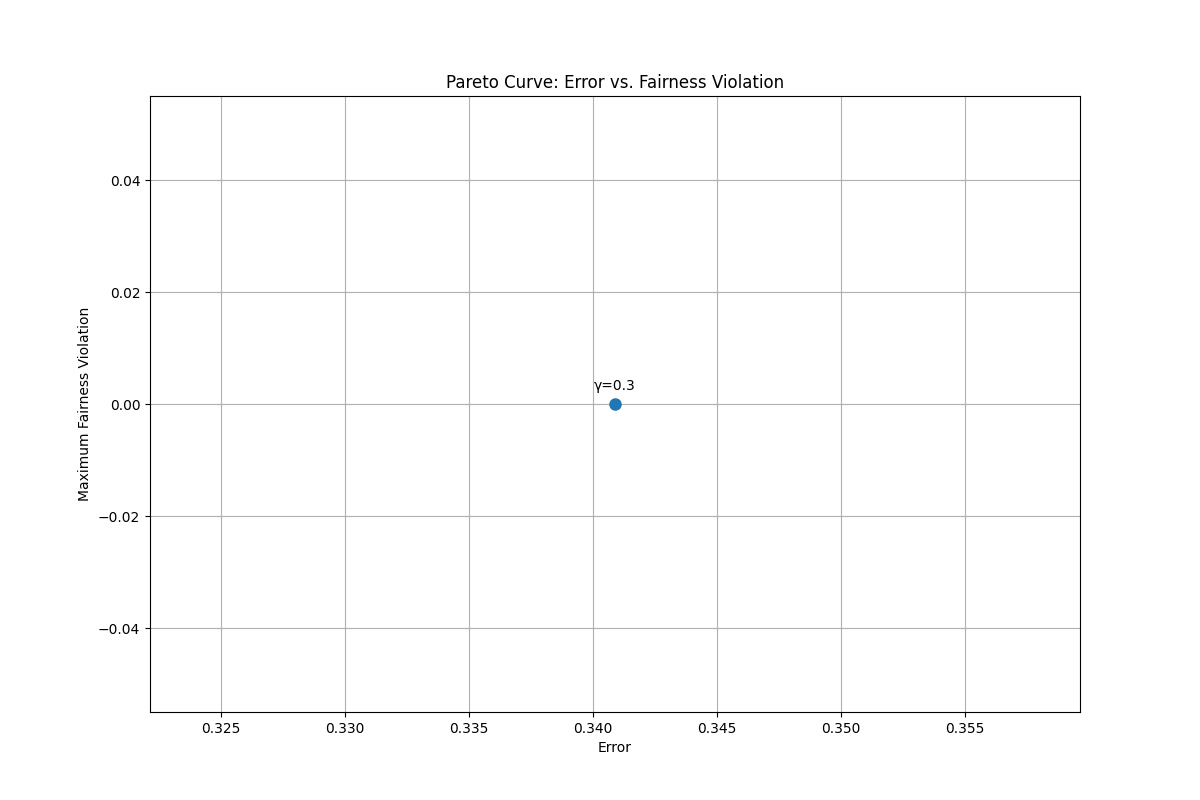
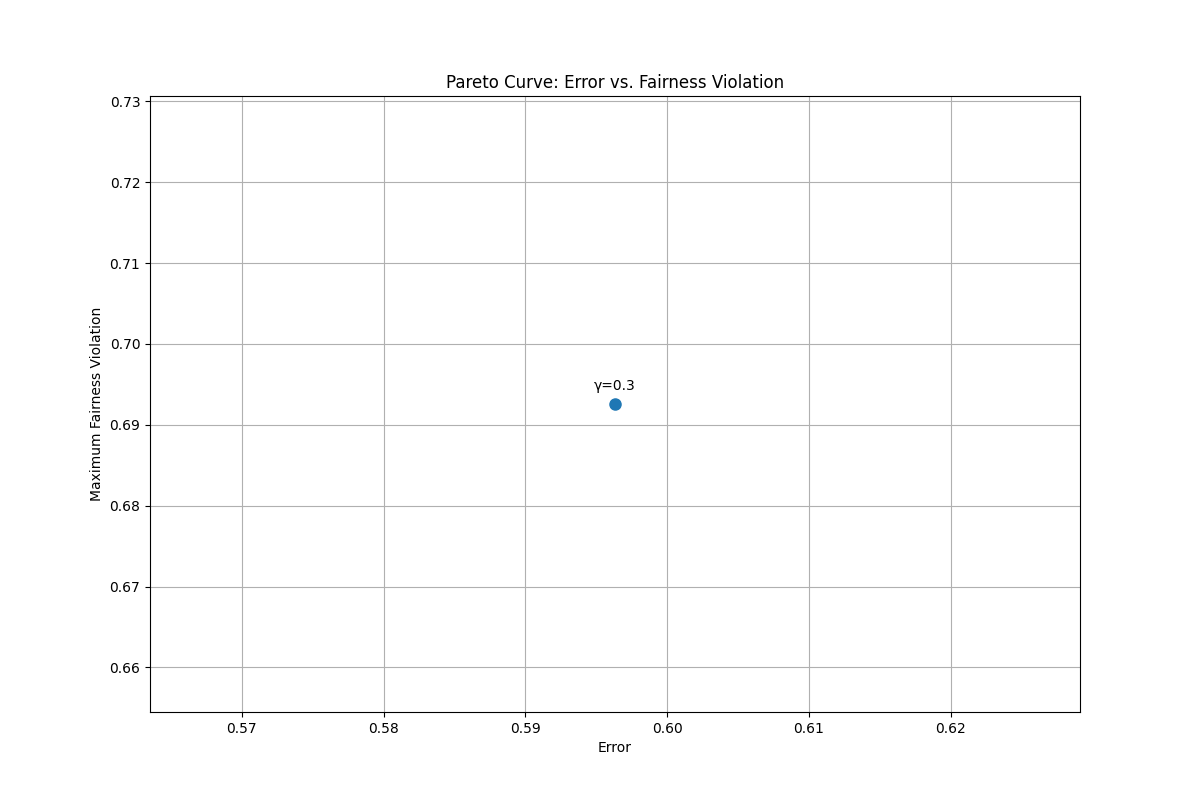
after debugging in detail

diff --git a/river_fairness_adaptive.py b/river_fairness_adaptive.py
@@ -48,7 +48,6 @@ class FairnessElicitationAlgorithm:
         self.time_horizon = time_horizon
         self.C_lambda = C_lambda
         self.C_tau = C_tau
-        self.eta = 0
         
         # Load and preprocess data
         self.load_data()
@@ -158,16 +157,17 @@ class FairnessElicitationAlgorithm:
             if str(judge_id) not in constraint_data:
                 raise ValueError(f"Judge ID {judge_id} not found in constraint data")
             focused_constraints = constraint_data[judge_id]
-            for constraint in focused_constraints:  # directly iterate over the list
-                pair = tuple(constraint['pair'])  # Extract the pair and convert to tuple
-                self.constraints.add(pair)
-                self.w_ij[pair] = constraint['weight']
+            for j_id, constraints in focused_constraints.items():
+                for constraint in constraints:
+                    pair = tuple(constraint['pair'])  # Extract the pair and convert to tuple
+                    self.constraints.add(pair)
+                    self.w_ij[pair] = constraint['weight']
 
             pairs_per_judge = 50  # Assuming 50 pairs were presented
             self.A = pairs_per_judge  # A is the total number of pairs presented
                 
             print(f"Loaded {len(self.constraints)} constraints from judge {judge_id}")
-            print(f"Judge selected {len(focused_constraints)} pairs out of {pairs_per_judge} presented")
+            print(f"Judge selected {len(pairs)} pairs out of {pairs_per_judge} presented")
         
         else:
             # Multiple judges case (original code)
@@ -374,10 +374,6 @@ class FairnessElicitationAlgorithm:
         # Track violations for reporting
         violation_count = 0
         max_gradient = 0.0
-
-        # Calculate learning rates as specified in the paper
-        mu_lambda = 1.0 / (self.C_lambda * np.sqrt(np.log(self.n) / self.time_horizon))
-        mu_tau = self.C_tau / np.sqrt(self.time_horizon)
         
         # Update lambda values with more aggressive learning and exploration
         lambda_new = {}
@@ -387,22 +383,114 @@ class FairnessElicitationAlgorithm:
         violations = []
         for (i, j) in self.constraints:
             diff = probs[i] - probs[j]
-            gradient = diff - gamma
-            curr_lambda = lambda_values.get((i, j), 0.0)
-            lambda_new[(i, j)] = max(0.0, min(self.C_lambda, curr_lambda + mu_lambda * gradient))
-        
-            if gradient > 0: # gradient = violation
-                violations.append(((i, j), gradient, diff))
+            violation = max(0, diff - gamma)
+            if violation > 0:
+                violations.append(((i, j), violation, diff))
                 violation_count += 1
-                total_gradient_norm += gradient**2
+                total_gradient_norm += violation**2
         
-        tau_gradient = sum(self.w_ij.get((i, j), 0) * alpha_t.get((i, j), 0) 
-                       for (i, j) in self.constraints) / self.A - self.eta  # eta is often 0
-        tau_new = max(0.0, min(self.C_tau, tau_value + mu_tau * tau_gradient))
-    
+        # Print detailed information about violations
         if violation_count > 0:
-            print(f"Iteration {t}: Violations = {violation_count}")
-       
+            print(f"\nIteration {t}: Found {violation_count} constraint violations")
+            print(f"Constraint violation details:")
+            
+            # Sort violations by magnitude (descending)
+            violations.sort(key=lambda x: x[1], reverse=True)
+            
+            # Print top 5 violations
+            for (i, j), violation, diff in violations[:5]:
+                print(f"  Pair ({i}, {j}): prob_diff={diff:.6f}, violation={violation:.6f}")
+                
+                # Look at the feature differences for these individuals
+                if hasattr(self, 'X') and len(self.X) > max(i, j):
+                    feature_diff = np.linalg.norm(self.X[i] - self.X[j])
+                    print(f"    Feature difference: {feature_diff:.4f}")
+                    
+                    # If we have labels, check if they're the same
+                    if hasattr(self, 'y') and len(self.y) > max(i, j):
+                        print(f"    Labels: {self.y[i]} vs {self.y[j]}")
+        
+        # Step 2: Apply more aggressive updates
+        learning_rate_base = 0.1  # Higher base learning rate
+        
+        # Add stronger exploration to escape local optima
+        exploration_rate = 0.02 * (1.0 / (1.0 + 0.01 * t))  # Decaying exploration
+        
+        for (i, j) in self.constraints:
+            # Calculate gradient
+            diff = probs[i] - probs[j]
+            gradient = diff - gamma
+            
+            # Current lambda value
+            curr_lambda = lambda_values.get((i, j), 0.0)
+            
+            # Adaptive learning rate - higher for violated constraints
+            if diff > gamma:
+                # Violation - use higher learning rate
+                lr = learning_rate_base * (1.0 / (1.0 + 0.005 * t))
+            else:
+                # No violation - use lower learning rate
+                lr = 0.01 * learning_rate_base * (1.0 / (1.0 + 0.01 * t))
+            
+            # Update lambda with exploration noise
+            noise = np.random.normal(0, exploration_rate) if t % 5 == 0 else 0
+            lambda_new[(i, j)] = max(0.0, min(self.C_lambda, curr_lambda + lr * gradient + noise))
+            
+            # Periodically inject more randomness to escape plateaus
+            if t % 20 == 0 and diff > gamma:
+                lambda_new[(i, j)] = max(0.0, min(self.C_lambda, 
+                                                lambda_new[(i, j)] + np.random.uniform(0, 0.1)))
+        
+        # Step 3: Update tau more aggressively
+        tau_gradient = sum(self.w_ij.get((i, j), 0) * alpha_t.get((i, j), 0) 
+                        for (i, j) in self.constraints) / self.A
+        tau_lr = 0.1 * (1.0 / (1.0 + 0.01 * t))
+        tau_new = max(0.0, min(self.C_tau, tau_value + tau_lr * tau_gradient))
+        
+        # If no progress after many iterations, inject random reset
+        if t > 50 and t % 20 == 0 and max_gradient < 0.01:
+            print("Algorithm potentially stuck - resetting some variables randomly")
+            
+            # Reset a subset of lambda values
+            if violations:
+                sample_size = min(10, len(violations))
+                if t > 50 and t % 20 == 0 and max_gradient < 0.01:
+                    print("Algorithm potentially stuck - resetting some variables randomly")
+                    
+                    # Reset a subset of lambda values
+                    if violations:
+                        # Get random indices instead of trying to sample the tuples directly
+                        sample_size = min(10, len(violations))
+                        random_indices = np.random.choice(range(len(violations)), sample_size, replace=False)
+                        
+                        for idx in random_indices:
+                            pair = violations[idx][0]  # Get the (i,j) pair
+                            lambda_new[pair] = np.random.uniform(0, self.C_lambda/2)
+                    
+                    # Occasionally reset tau
+                    if np.random.random() < 0.2:
+                        tau_new = np.random.uniform(0, self.C_tau/2)
+            
+            # Occasionally reset tau
+            if np.random.random() < 0.2:
+                tau_new = np.random.uniform(0, self.C_tau/2)
+        
+        # Detailed stats about violations and lambda values
+        if violations:
+            # Count non-zero lambdas
+            non_zero_lambdas = sum(1 for v in lambda_new.values() if v > 0.001)
+            print(f"Non-zero lambda values: {non_zero_lambdas}/{len(lambda_new)}")
+            
+            # Mean/max lambda values
+            lambda_values = list(lambda_new.values())
+            print(f"Lambda statistics: mean={np.mean(lambda_values):.6f}, max={np.max(lambda_values):.6f}")
+            
+            # Print constraint statistics 
+            all_diffs = [probs[i] - probs[j] for (i, j) in self.constraints]
+            print(f"Mean probability diff: {np.mean(all_diffs):.6f}")
+            print(f"Max probability diff: {np.max(all_diffs):.6f}")
+            print(f"Violations exceeding γ={gamma}: {sum(1 for d in all_diffs if d > gamma)}/{len(all_diffs)}")
+        
         return lambda_new, tau_new
                 
     def average_models(self, models, weights=None):
@@ -462,6 +550,9 @@ class FairnessElicitationAlgorithm:
         for gamma in gamma_values:
             print(f"\nRunning algorithm with gamma = {gamma}")
             
+            # Reset algorithm state
+            self.lambda_optimizers = {}
+            self.tau_optimizer = None
             
             # Initialize storages for this gamma
             errors = []
@@ -507,7 +598,7 @@ class FairnessElicitationAlgorithm:
                 prev_violation = max_violation
                 
                 # Update dual variables using River's no-regret optimizers
-                lambda_t, tau_t = self.update_dual_variables(lambda_t, tau_t, D_t, alpha_t, gamma, t)
+                lambda_t, tau_t = self.update_dual_variables_river(lambda_t, tau_t, D_t, alpha_t, gamma, t)
                 
                 # Early stopping if we've made no progress
                 if stalled_iterations > 50:
@@ -644,18 +735,18 @@ def main():
         algorithm.load_constraint_sets(judge_id=args.judge_id)
     
     # Run the algorithm with specified gamma value
-    gamma_values = [args.gamma]
-    results = algorithm.run(gamma_values)
+    #gamma_values = [args.gamma]
+    #results = algorithm.run(gamma_values)
     
     # Plot the results
-    algorithm.plot_trajectory(results)
-    algorithm.plot_pareto_curves(results)
+    #algorithm.plot_trajectory(results)
+    #algorithm.plot_pareto_curves(results)
     
     # Save results to file
-    import pickle
-    with open(f"results_gamma_{args.gamma}.pkl", "wb") as f:
-        pickle.dump(results, f)
-    print(f"Results saved to results_gamma_{args.gamma}.pkl")
+    #import pickle
+    #with open(f"results_gamma_{args.gamma}.pkl", "wb") as f:
+        #pickle.dump(results, f)
+    #print(f"Results saved to results_gamma_{args.gamma}.pkl")
 
 if __name__ == "__main__":
     main()

diff --git a/visualize_pck.py b/visualize_pck.py
@@ -5,7 +5,7 @@ Pickle Visualizer for Fairness Algorithm Results
 ------------------------------------------------
 This script loads and visualizes the results saved by the fairness algorithm.
 
-Usage: python visualize_results.py results_gamma_0.3.pkl
+Usage: python visualize_pck.py results_gamma_0.3.pkl
 """
 
 import pickle
